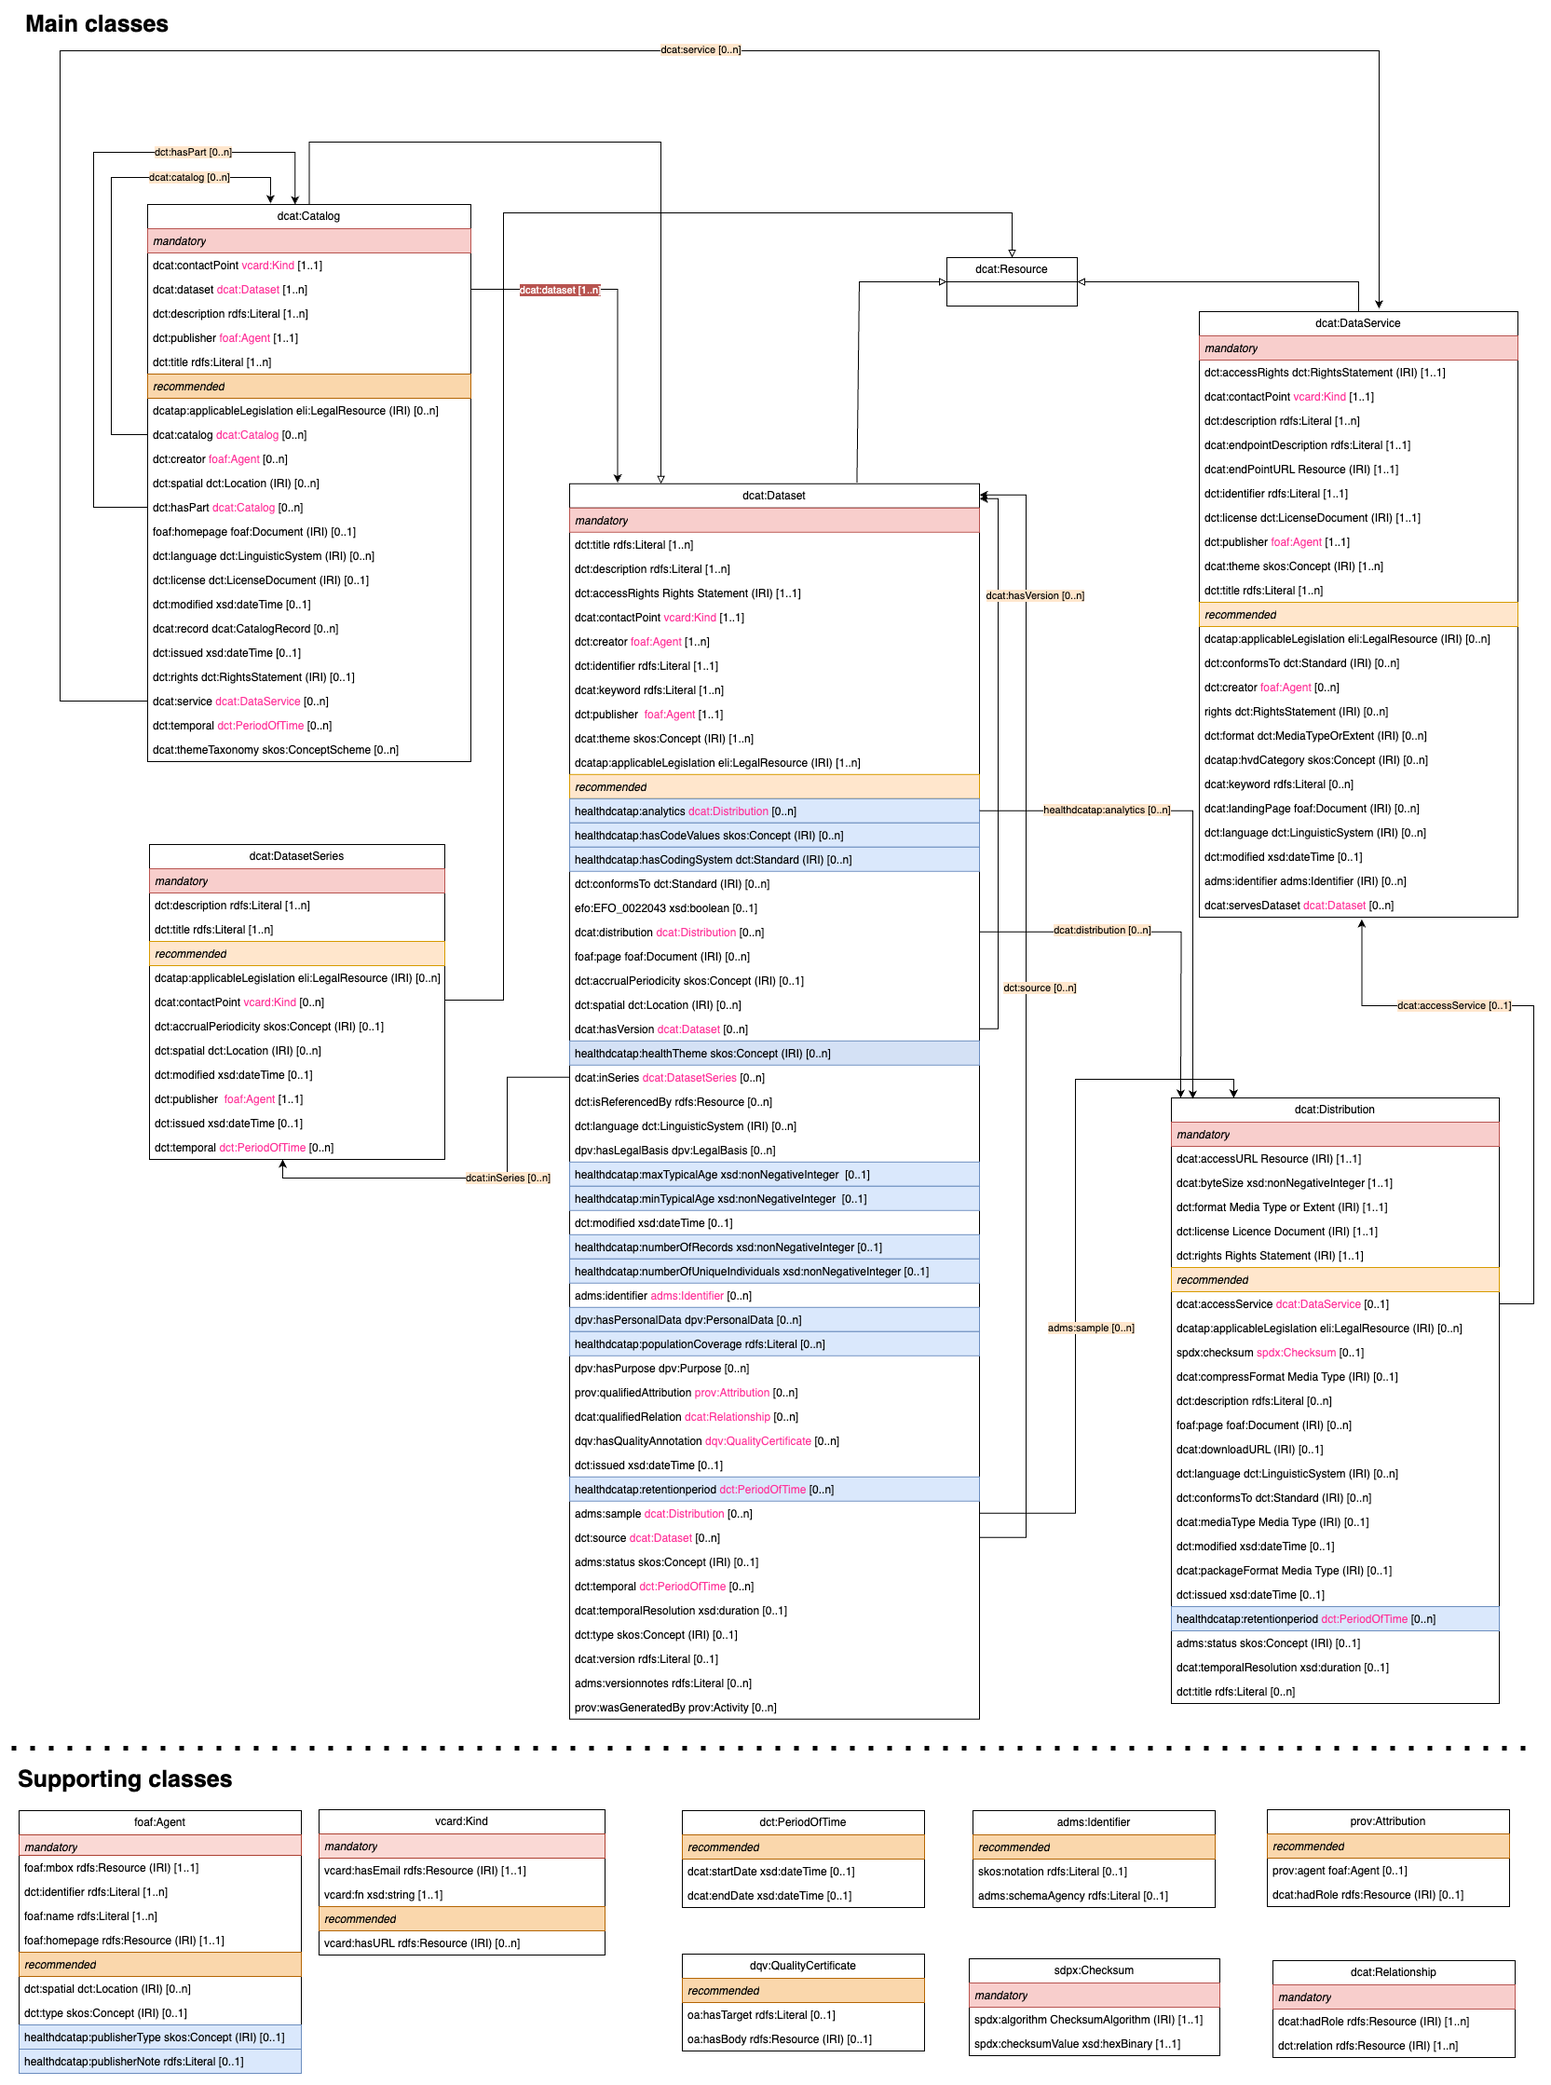
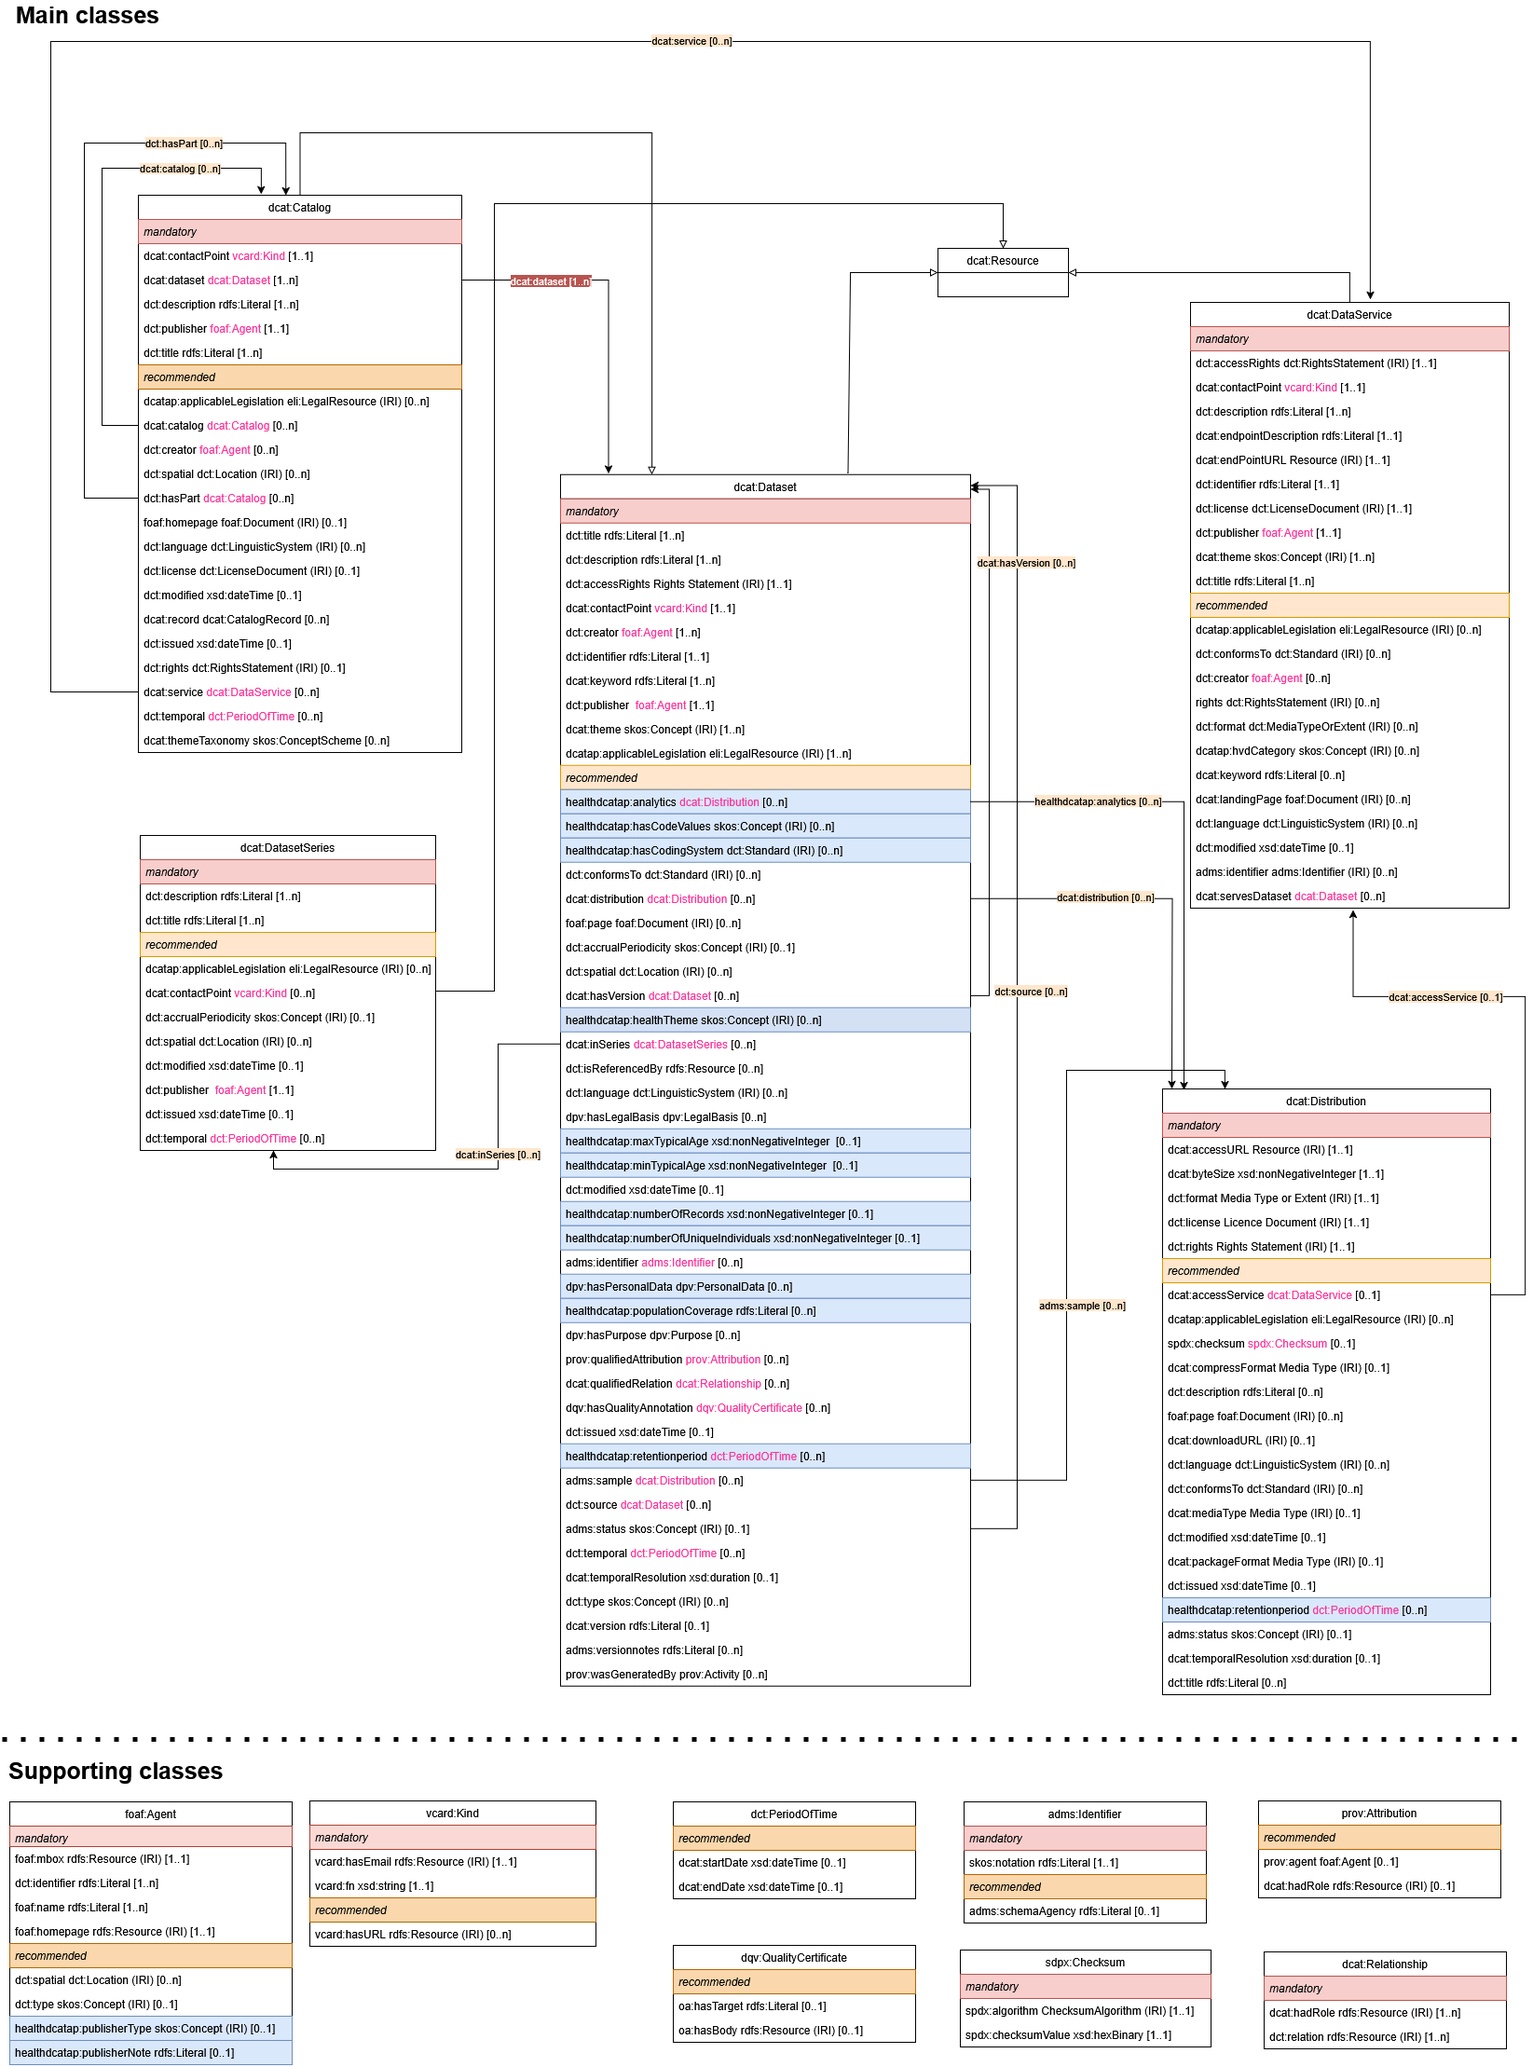
docs: remove data origin and minor improvements usage notes

diff --git a/README.md b/README.md
@@ -51,7 +51,7 @@ Please note that HealthDCAT-AP has currently not officially been finalized and i
 
 In addition, several **ELSI**-related metadata fields, as [gathered](https://health-ri.atlassian.net/wiki/spaces/HA/pages/469893133/Metadata+rondom+gebruiksvoorwaarden+en+authenticatie+autorisatie+en+ELSI+aspecten#Catalogus) by the Health-RI ELSI team, are included in this version 2 of the Health-RI core metadata schema, although not mandatory. The use of these properties will be explored and evaluated once the new version is implemented in the catalogue.
 
-Finally, the newly introduced property data origin (`efo:EFO_0022043`), with the goal to discriminate non-synthetic from synthetic data, is included in this version 2 of the Health-RI core metadata schema. We now propose to further indicate the **nature of the data** (e.g. whole genome sequencing data, or questionnaire data) with `healthdcatap:healthTheme`.
+We propose to indicate the **nature of the data** (e.g. whole genome sequencing data, or questionnaire data) with `healthdcatap:healthTheme`. In case you are describing **synthetic data**, you can use the `dct:type` property with the required controlled vocabluary (including a value for synthetic data) in the `dcat:Dataset` class.
 
 Several classes have been included from [DCAT-AP NL](https://docs.geostandaarden.nl/dcat/dcat-ap-nl30/) and draft [HealthDCAT-AP](https://healthdcat-ap.github.io/) without further specification so far at Health-RI. This includes the [DataService class](#data-service). Therefore, these classes can be used, but are not yet further modelled to reflect specific needs of dataholders for the National Health Data Catalogue.
 
@@ -158,7 +158,7 @@ A catalogue or repository that hosts the Datasets or Data Services being describ
 | --- | --- | --- | --- | --- | --- | --- | --- |
 | [contact point](https://www.w3.org/TR/vocab-dcat-3/#Property:resource_contact_point) | Relevant contact information for the cataloged resource. | `dcat:contactPoint` | NA | `vcard:Kind` | This property points to a contact point (department or person) that can answer questions about the catalogue. Details on how to describe these are provided under class `vcard:Kind`. <br> Whenever possible, use **general contact information** (for example from a department) instead of contact information of an individual. | 1 | TBD |
 | [dataset](https://www.w3.org/TR/vocab-dcat-3/#Property:catalog_dataset) | A dataset that is listed in the catalog. | `dcat:dataset` | NA | `dcat:Dataset` | Each catalog contains one or more datasets. This property serves to link datasets to a catalogue. Therefore, a dataset is always contained inside a catalogue. | 1..\* | TBD |
-| [description](http://purl.org/dc/terms/description) | An account of the resource. | `dct:description` | NA |`rdfs:Literal` | Briefly describe the catalog. You can repeat this in multiple languages. | 1..\* | This catalogue describes the core metadata of AUMC Inflammatory Bowel Disease datasets. <br> This catalogue describes breast cancer imaging, clinical and omics datasets. |
+| [description](http://purl.org/dc/terms/description) | An account of the resource. | `dct:description` | NA |`rdfs:Literal` | Briefly describe the catalog and what it contains. You can repeat this in multiple languages. | 1..\* | This catalogue describes the core metadata of AUMC Inflammatory Bowel Disease datasets. <br> This catalogue describes breast cancer imaging, clinical and omics datasets. |
 | [publisher](http://purl.org/dc/terms/publisher) | An entity responsible for making the resource available. | `dct:publisher` | NA | `foaf:Agent` | The organisation or individual that is the holder of the intellectual property rights of a dataset. For more details about the publisher, see the class [Agent](#agent). | 1 | name: Radboud University Medical Center <br> identifier: `https://ror.org/05wg1m734` <br> (see class foaf: Agent) |
 | [title](http://purl.org/dc/terms/title) | A name given to the resource. | `dct:title` | NA | `rdfs:Literal` | Provide a unique title for your catalog, which can be repeated in multiple languages. | 1..\* | Healthy Brain Study |
 
@@ -196,7 +196,7 @@ A conceptual entity that represents the information published. <br><br>
 | [applicable legislation](http://data.europa.eu/r5r/applicableLegislation) | The legislation that is applicable to this resource. | `dcatap:applicableLegislation` | NA | `eli:LegalResource` | The ELI of the EHDS was published in March 2025 and can now be included as the applicable legislation mandating that the dataset has to be made public. <br> For health datasets, the value must include the ELI of the [EHDS Regulation](http://data.europa.eu/eli/reg/2025/327/oj). <br> As multiple legislations may apply to the resource, the maximum cardinality is not limited. <br><br> While the applicable legislation indicates which legislation mandates the publication of the dataset, the legal basis property (also in Datasets) described the legal basis for initial collection and processing of (personal) data. | 1..\* | NA |
 | [contact point](https://www.w3.org/TR/vocab-dcat-3/#Property:resource_contact_point) | Relevant contact information for the cataloged resource. | `dcat:contactPoint` | NA | `vcard:Kind` | This property points to a contact point (department or person) that can answer questions about the dataset. Details on how to describe these are provided under class `vcard:Kind`. <br>Whenever possible, use **general contact information** (for example from a department) instead of contact information of an individual. | 1 | mailto: `data-access-committee@xumc.nl` <br> with the name Data Access Committee of the x UMC (see [vcard:Kind](#kind)) |
 | [creator](http://purl.org/dc/terms/creator) | An entity responsible for making the resource. | `dct:creator` | NA | `foaf:Agent` | This property points to a person (known as `Agent`) responsible for generating the dataset. In most cases, this should be the project’s Principal Investigator, provided they consent to being listed in the catalogue. If not, the associated department or institute may be specified instead. | 1..\* | Jip Fictief, Inez Maginary, Fabio Abricated for name of `foaf:Agent` |
-| [description](http://purl.org/dc/terms/description) | An account of the resource. | `dct:description` | NA | `rdfs:Literal` | Briefly describe the datasets in the catalog. You can repeat this in multiple languages. | 1..\* | Collection of physiological data of Healthy Brain Study participants. This collection includes measurements via biowearables for heart rate, oxygenation, systolic and diastolic measures and stress levels. |
+| [description](http://purl.org/dc/terms/description) | An account of the resource. | `dct:description` | NA | `rdfs:Literal` | Brief description of the dataset. You can repeat this property in multiple languages. | 1..\* | Collection of physiological data of Healthy Brain Study participants. This collection includes measurements via biowearables for heart rate, oxygenation, systolic and diastolic measures and stress levels. |
 | [identifier](http://purl.org/dc/terms/identifier) | An unambiguous reference to the resource within a given context. | `dct:identifier` | NA | `rdfs:Literal` | Please see the latest usage recommendations on [this page](https://health-ri.atlassian.net/wiki/spaces/FSD/pages/1084751895/Recommendations+for+filling+in+the+dct+identifier+field+for+Dataset).  | 1 | `https://doi.org/10.34894/ZLOYOJ` |
 | [keyword](https://www.w3.org/ns/dcat#keyword) | A keyword or tag describing the resource. | `dcat:keyword` | NA | `rdfs:Literal` | Add keywords to increase dataset discoverability. You can include keywords in different languages, submitting each keyword as a separate entry. | 1..\* | Physiological measures, Heart Rate, Stress Measures |
 | [publisher](http://purl.org/dc/terms/publisher) | An entity responsible for making the resource available. | `dct:publisher` | NA | `foaf:Agent` | This property identifies the organisation or individual responsible for making the dataset available. For datasets, this is typically the employer of the data creators. In simple cases, the dataset publisher may be the same as the catalog publisher. In more complex settings, such as when datasets come from multiple institutions within a consortium, the consortium should be listed as the publisher where possible. If no formal consortium can be specified, provide the information of the contributing organizations or individuals under `dct:creator` instead. For more details, refer to the [Agent](#agent) class. | 1 | Radboud University Medical Center; identifier `https://ror.org/05wg1m734` (see foaf: Agent) |
@@ -211,7 +211,6 @@ A conceptual entity that represents the information published. <br><br>
 | [code values](https://healthdcat-ap.github.io/#Dataset.hascodevalues) | Health classifications and their codes associated with the dataset. | `healthdcatap:hasCodeValues` | NA | `skos:Concept` | Inside this property, you can provide the coding system of the dataset in the form of [wikidata](https://www.wikidata.org/) URI (example: `https://www.wikidata.org/entity/P494` for ICD-10 ID) and the URI of the value that describes the dataset (example: `https://icd.who.int/browse10/2019/en#/Y59.0` for viral vaccines) | 0..\* | `https://www.wikidata.org/entity/P494` for ICD-10 ID and `https://icd.who.int/browse10/2019/en#/Y59.0` for viral vaccines|
 | [coding system](https://healthdcat-ap.github.io/#Dataset.hascodingsystem) | Coding systems in use (ex: ICD-10-CM, DGRs, SNOMED-CT, ...). | `healthdcatap:hasCodingSystem` | NA | `dct:Standard (IRI)` | This property provides information on which coding systems are in use inside your dataset. For this, [wikidata](https://www.wikidata.org/) URIs must be used. | 0..\* | `https://www.wikidata.org/entity/P494` (ICD-10 ID) |
 | [conforms to](http://purl.org/dc/terms/conformsTo) | An established standard to which the described resource conforms. | `dct:conformsTo` | NA | `dct:Standard (IRI)` | If your data conforms to an established standard or specification, use this property to indicate which one. The [wikidata](https://www.wikidata.org/) URI of the specification must be used. | 0..\* | `https://www.wikidata.org/wiki/Q19597236` for FHIR |
-| [data origin](http://www.ebi.ac.uk/efo/EFO_0022043) | Data that are artificially created rather than being generated by actual events. | `efo:EFO_0022043` | NA | `xsd:boolean` | The dataset type property indicates whether the dataset is composed of synthetic or non-synthetic data. In order to do it, standardized vocabularies should be used. These vocabularies are still being developed. | 0..1 | NA |
 | [distribution](https://www.w3.org/TR/vocab-dcat-3/#Property:dataset_distribution) | An available distribution of the dataset. | `dcat:distribution` | NA | `dcat:Distribution` | Metadata element used as a key link to the class Distribution. | 0..\* | NA |
 | [documentation](http://xmlns.com/foaf/spec/#term_page) | A page or document about this thing. | `foaf:page` | NA | `foaf:Document (IRI)` | The value of this property is the IRI directing to the webpage or document about the dataset. | 0..\* | NA |
 | [frequency](http://purl.org/dc/terms/accrualPeriodicity) | The frequency with which items are added to a collection. | `dct:accrualPeriodicity` | [EU Vocabularies Frequency Authority List](http://publications.europa.eu/resource/authority/frequency) | `skos:Concept` | "The value of this property should be the IRI from the listed controlled vocabulary, indicating the frequency at which the dataset is updated. | 0..1 | `http://publications.europa.eu/resource/authority/frequency/WEEKLY` |
@@ -241,7 +240,7 @@ A conceptual entity that represents the information published. <br><br>
 | [status](https://www.w3.org/TR/vocab-adms/#adms-status) | The status of the Asset in the context of a particular workflow process. | `adms:status` | [EU Vocabularies Dataset Status Named Authority List](https://publications.europa.eu/resource/authority/dataset-status) | `skos:Concept` | This property makes use of a controlled vocabulary to indicate the status of the described dataset. | 0..1 | `http://publications.europa.eu/resource/authority/dataset-status/COMPLETED` |
 | [temporal coverage](http://purl.org/dc/terms/temporal) | Temporal characteristics of the resource. | `dct:temporal` | NA | `dct:PeriodOfTime` | The start and end date of the period that the dataset covers. This property makes use of a small class: Period of Time, in which a start and end date can be given. | 0..\* | NA |
 | [temporal resolution](http://purl.org/dc/terms/temporalResolution) | Minimum time period resolvable in the dataset. | `dcat:temporalResolution` | NA | `xsd:duration` | If the dataset is a time-series, this should correspond to the spacing of items in the series. For other kinds of dataset, this property will usually indicate the smallest time difference between items in the dataset. The time period has to be provided in the `xsd:duration` format. | 0..1 | NA |
-| [type](http://purl.org/dc/terms/type) | The nature or genre of the resource. | `dct:type` | [EU Vocabularies Dataset Type Named Authority List](http://publications.europa.eu/resource/authority/dataset-type) or [DCMI Type Vocabulary](https://www.dublincore.org/specifications/dublin-core/dcmi-terms/#section-7) | `skos:Concept` | A recommended controlled vocabulary data-type is foreseen. Health datasets with personal information must use 'personal data'. This list supports dataset categorization for the EU Open Data Portal. Currently, 'PERSONAL_DATA' is not included in the EU vocabulary and cannot be filled out. | 0..1 | `http://publications.europa.eu/resource/authority/dataset-type/PERSONAL_DATA` |
+| [type](http://purl.org/dc/terms/type) | The nature or genre of the resource. | `dct:type` | [EU Vocabularies Dataset Type Named Authority List](http://publications.europa.eu/resource/authority/dataset-type)| `skos:Concept` | A recommended controlled vocabulary data-type is foreseen. Health datasets with personal information must use 'personal data'. This list supports dataset categorization for the EU Open Data Portal. Currently, 'PERSONAL_DATA' is not included in the EU vocabulary and cannot be filled out. | 0..\* | `http://publications.europa.eu/resource/authority/dataset-type/PERSONAL_DATA` |
 | [version](https://semiceu.github.io/DCAT-AP/releases/3.0.0/#Dataset.version) | The version indicator (name or identifier) of a resource. | `dcat:version` | NA | `rdfs:Literal` | Suggested practice: track major_version.minor_version. Register a new identifier for major changes (e.g., 1.0.0 for an unchanged dataset). | 0..1 | NA |
 | [version notes](https://www.w3.org/ns/legacy_adms#versionNotes) | A description of changes between this version and the previous version of the Asset. | `adms:versionNotes` | NA | `rdfs:Literal` | Provide a short description of changes made to the dataset from the previous version. | 0..\* | NA |
 | [was generated by](https://www.w3.org/TR/prov-o/#wasGeneratedBy) | Generation is the completion of production of a new entity by an activity. This entity did not exist before generation and becomes available for usage after this generation. | `prov:wasGeneratedBy` | NA | `prov:Activity` | NA | 0..\* | NA |
